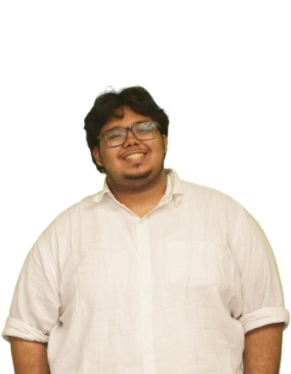
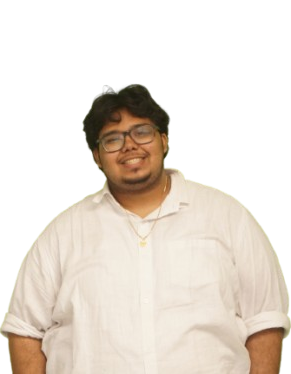
new photos

diff --git a/src/constants/index.js b/src/constants/index.js
@@ -448,17 +448,19 @@ export const members = [
     id: 3,
     name: "TANISHQ BANE",
     position: "SPONSORSHIP LEAD",
-     image:'./src/assets/card/tanishq.png',
+     
   },
   {
     id: 4,
     name: "ANDRE FERNANDES",
     position: "WEB DEVELOPMENT LEAD",
+    image:'./src/assets/card/andre.png',
   },
   {
     id: 5,
     name: "PRATHAMESH PARAB",
     position: "SENIOR CO-ORDINATOR",
+     image:'./src/assets/card/prathamesh.png',
     
     
   },
@@ -472,7 +474,7 @@ export const members = [
     id: 7,
     name: "DWAYNE GEORGE NIXON",
     position: "SENIOR CO-ORDINATOR",
-     image:'./src/assets/card/dwayne.png',
+     image:'./src/assets/card/dwyane.png',
   },
   {
     id: 8,
@@ -490,16 +492,19 @@ export const members = [
     id: 10,
     name: "TIYA TRAVAS",
     position: "SENIOR CO-ORDINATOR",
+     image:'./src/assets/card/tiya.png',
   },
   {
     id: 11,
     name: "AAYUSH PULKUNDWAR",
     position: "JUNIOR CO-ORDINATOR",
+     image:'./src/assets/card/aayush.png',
   },
   {
     id: 12,
     name: "LAETICIA COSTA CORREIA",
     position: "JUNIOR CO-ORDINATOR",
+     image:'./src/assets/card/laetcia.png',
   },
   {
     id: 13,
@@ -511,11 +516,13 @@ export const members = [
     id: 14,
     name: "SEONA LOBO",
     position: "JUNIOR CO-ORDINATOR",
+     image:'./src/assets/card/seona.png',
   },
   {
     id: 15,
     name: "JOSHUA DIAS",
     position: "JUNIOR CO-ORDINATOR",
+     image:'./src/assets/card/joshua.png',
   },
   {
     id: 16,
